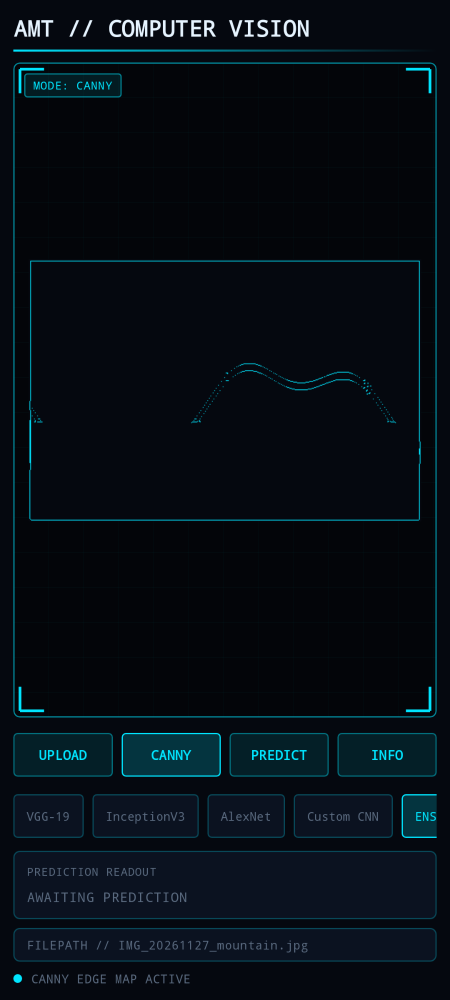
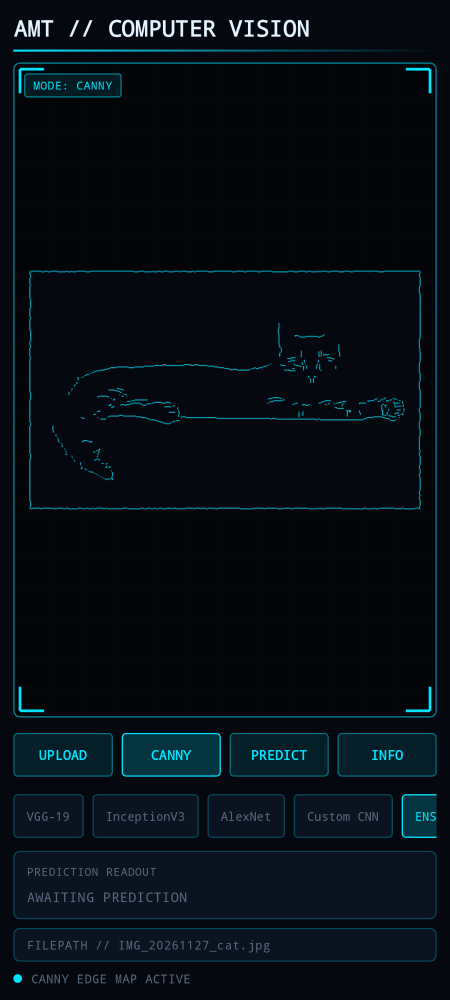
Swap demo sample to a real cat photo and re-render screenshots

diff --git a/app/src/test/java/com/amt/vision/MainScreenSnapshotTest.kt b/app/src/test/java/com/amt/vision/MainScreenSnapshotTest.kt
@@ -44,14 +44,14 @@ class MainScreenSnapshotTest {
                 models = models,
                 selectedModel = "VGG-19",
                 prediction = PredictionUi(
-                    label = "mountain",
-                    confidence = 0.94f,
-                    top = listOf("mountain" to 0.94f, "glacier" to 0.04f, "sea" to 0.01f),
+                    label = "tabby cat",
+                    confidence = 0.93f,
+                    top = listOf("tabby cat" to 0.93f, "tiger cat" to 0.05f, "lynx" to 0.01f),
                     note = "model: VGG-19"
                 ),
                 showInfo = true,
-                imageInfo = "1280 x 853 x 3",
-                filePath = "IMG_20261127_mountain.jpg",
+                imageInfo = "1024 x 626 x 3",
+                filePath = "IMG_20261127_cat.jpg",
                 status = "PREDICTION COMPLETE"
             )
         )
@@ -67,7 +67,7 @@ class MainScreenSnapshotTest {
                 cannyOn = true,
                 models = models,
                 selectedModel = "ENSEMBLE (ALL MODELS)",
-                filePath = "IMG_20261127_mountain.jpg",
+                filePath = "IMG_20261127_cat.jpg",
                 status = "CANNY EDGE MAP ACTIVE"
             )
         )
